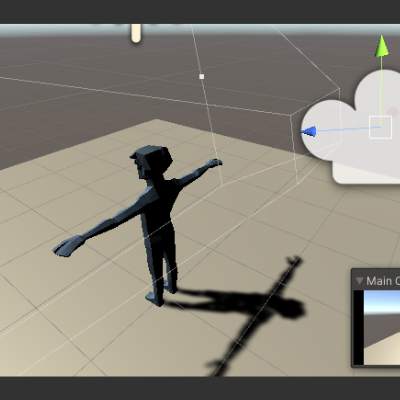
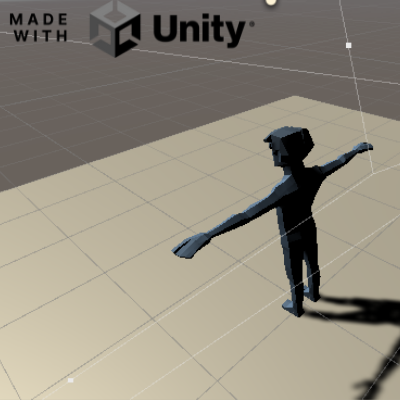
Finished Cognitive page, need to align image

diff --git a/Cognitive.html b/Cognitive.html
@@ -67,17 +67,17 @@
 
     <!--My Tests-->
     <section class="my-work" id="work">
-        <h2 class="section__title--work">My work</h2>
-        <p class="section__subtitle--work"> Images of the tests I coded</p>
+        <h2 class="section__title--work">Reaction Test</h2>
+        <p class="section__subtitle--work"> JavaScript Coded Tests</p>
         <div class="portfolio">
             <!--Portfolio item 01-->
-            <img src="img/reactiontime.jpg" alt="reaction time test" class="portfolio__img">
+            <img src="img/reactiontime.png" alt="reaction time test" class="portfolio__img">
             </a>
             <!--Portfolio item 02-->
-            <img src="img/reationstroop.png" alt="Stroop test" class="portfolio__img">
+            <img src="img/reactionstroop.png" alt="Stroop test" class="portfolio__img">
             </a>
             <!--Portfolio item 03-->
-            <img src="img/reactionRVI.PNG" alt="RVP Test" class="portfolio__img">
+            <img src="img/reactionRVI.png" alt="RVP Test" class="portfolio__img">
             </a>
             <!--Portfolio item 04-->
             <!-- <a href="#" class="portfolio__item">

diff --git a/index.html b/index.html
@@ -93,11 +93,11 @@
                  </a>
                  <!--Portfolio item 02-->
                  <a href="Cognitive.html" class="portfolio__item">
-                    <img src="img/webapp.png" alt="Web application" class="portfolio__img"><!--image of the work item you talking about-->
+                    <img src="img/cognitivehome.png" alt="Web application" class="portfolio__img"><!--image of the work item you talking about-->
                 </a>
                 <!--Portfolio item 03-->
                 <a href="rehab.html" class="portfolio__item">
-                    <img src="img/unity.png" alt="Unity physical therapy game" class="portfolio__img"><!--image of the work item you talking about-->
+                    <img src="img/unityAvatar.png" alt="Unity physical therapy game" class="portfolio__img"><!--image of the work item you talking about-->
                 </a>
                 <!--Portfolio item 04-->
                 <!-- <a href="#" class="portfolio__item">

diff --git a/Auction.html b/Auction.html
@@ -36,7 +36,7 @@
          <!--Introduction-->
          <section class="intro" id="home">
             <h1 class="section__title section__title--intro">
-               Django Project
+               Auction Project
             </h1>
                 <p class="section__subtitle section__subtitle--intro">Python, SQL, HTML, CSS</p>
                 <img src="img/auction.png" alt="profile picture for Joshua Lopez" class="intro__img"><!--This is the profile image for the top of the website-->

diff --git a/css/style.css b/css/style.css
@@ -392,7 +392,6 @@ header{
 }
 
 .portfolio__item{
-    /* background-color: var(--clr-accent); The color under the images that will be seen when hover */
     overflow: hidden; /* when the box grows it does not grow outside of its box onto the others */
     display: flex;
     align-items: center;
